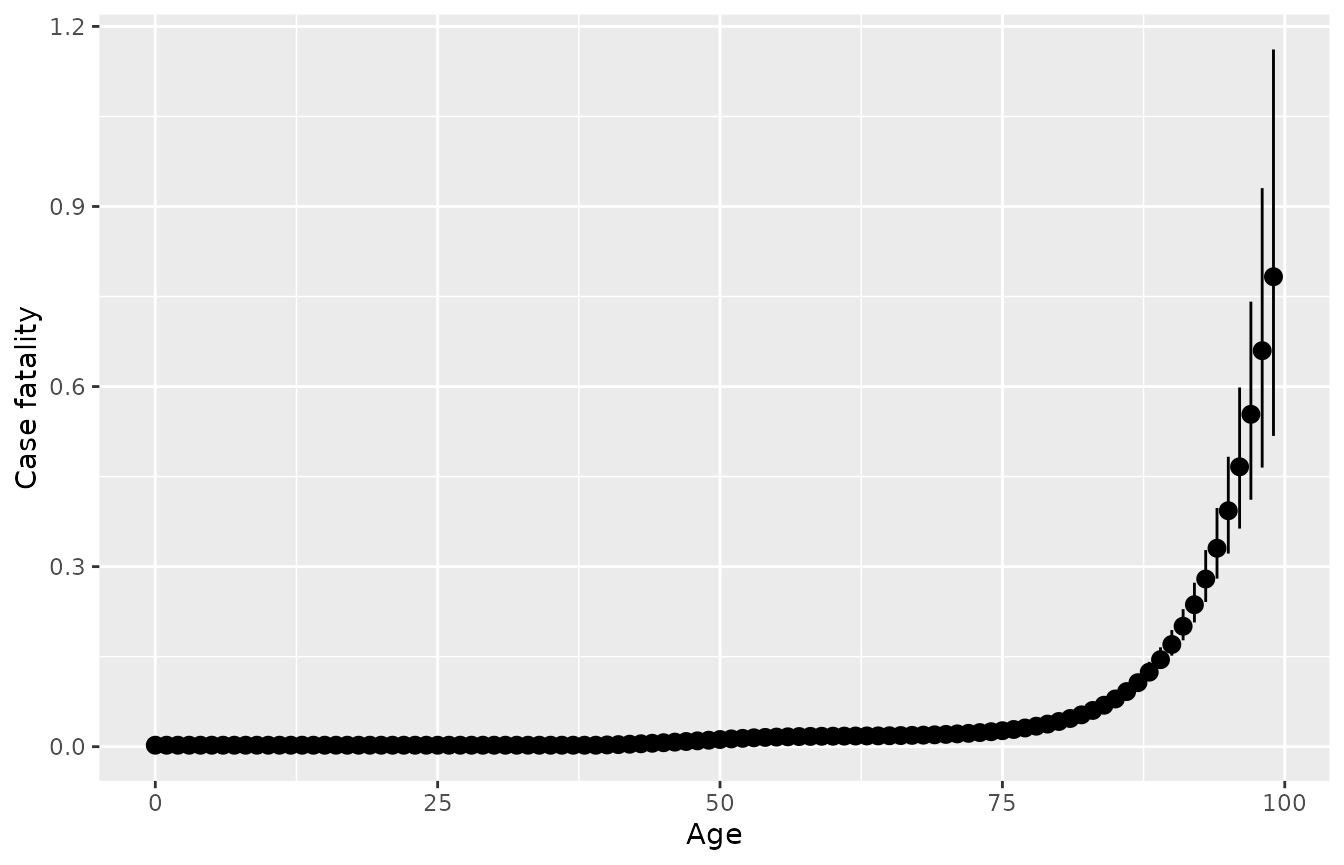
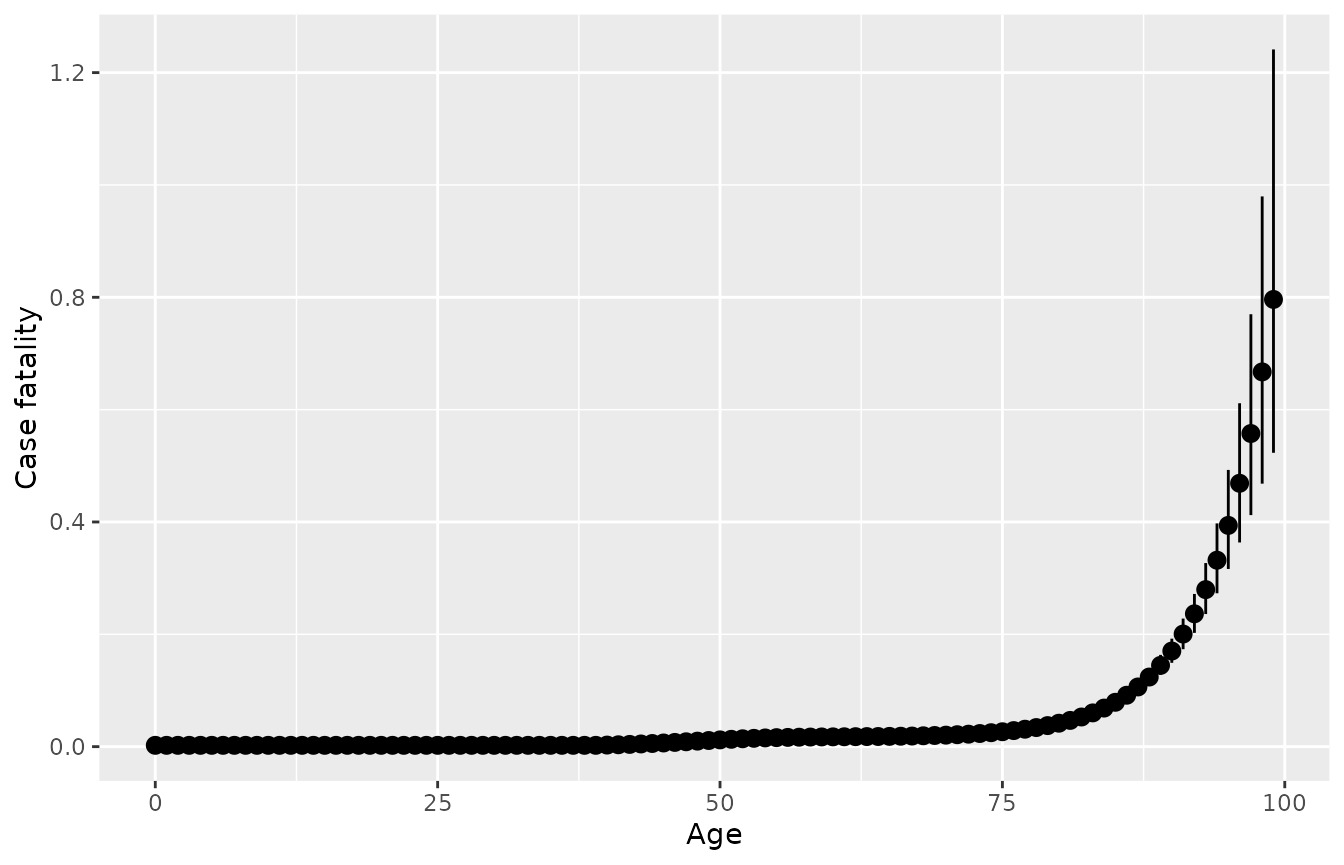
Built site for disbayes: 0.1@ed599a7

diff --git a/articles/disbayes.html b/articles/disbayes.html
@@ -339,12 +339,12 @@
   <span class="fu"><a href="https://dplyr.tidyverse.org/reference/filter.html">filter</a></span><span class="op">(</span><span class="va">var</span><span class="op">==</span><span class="st">"cf"</span>, <span class="fu"><a href="https://dplyr.tidyverse.org/reference/between.html">between</a></span><span class="op">(</span><span class="va">age</span>,<span class="fl">60</span>,<span class="fl">65</span><span class="op">)</span><span class="op">)</span> <span class="op"><a href="https://magrittr.tidyverse.org/reference/pipe.html">%&gt;%</a></span>
   <span class="fu"><a href="https://dplyr.tidyverse.org/reference/select.html">select</a></span><span class="op">(</span><span class="va">age</span>, <span class="va">`25%`</span>, <span class="va">`50%`</span>, <span class="va">`75%`</span><span class="op">)</span></code></pre></div>
 <pre><code>##   age        25%        50%        75%
-## 1  60 0.01624124 0.01746812 0.01889917
-## 2  61 0.01639067 0.01760510 0.01905402
-## 3  62 0.01649700 0.01778246 0.01911544
-## 4  63 0.01672947 0.01791607 0.01919300
-## 5  64 0.01696444 0.01801757 0.01931480
-## 6  65 0.01716477 0.01823756 0.01946426</code></pre>
+## 1  60 0.01638376 0.01744073 0.01872374
+## 2  61 0.01648104 0.01758621 0.01888095
+## 3  62 0.01663707 0.01777106 0.01902443
+## 4  63 0.01681242 0.01793969 0.01910785
+## 5  64 0.01702872 0.01805938 0.01921271
+## 6  65 0.01724273 0.01830590 0.01946842</code></pre>
 <p>The default <code>plot</code> method for objects returned by <code>disbayes</code> plots the posterior summaries for case fatality, allowing a quick check of the model results. Or do <code>plot(..., variable="inc")</code> for incidence. The function returns a <code>ggplot2</code> object that can be modified with <code>ggplot2</code> functions, e.g. to add axis labels.</p>
 <div class="sourceCode" id="cb17"><pre class="downlit sourceCode r">
 <code class="sourceCode R"><span class="kw"><a href="https://rdrr.io/r/base/library.html">library</a></span><span class="op">(</span><span class="va"><a href="https://ggplot2.tidyverse.org">ggplot2</a></span><span class="op">)</span>
